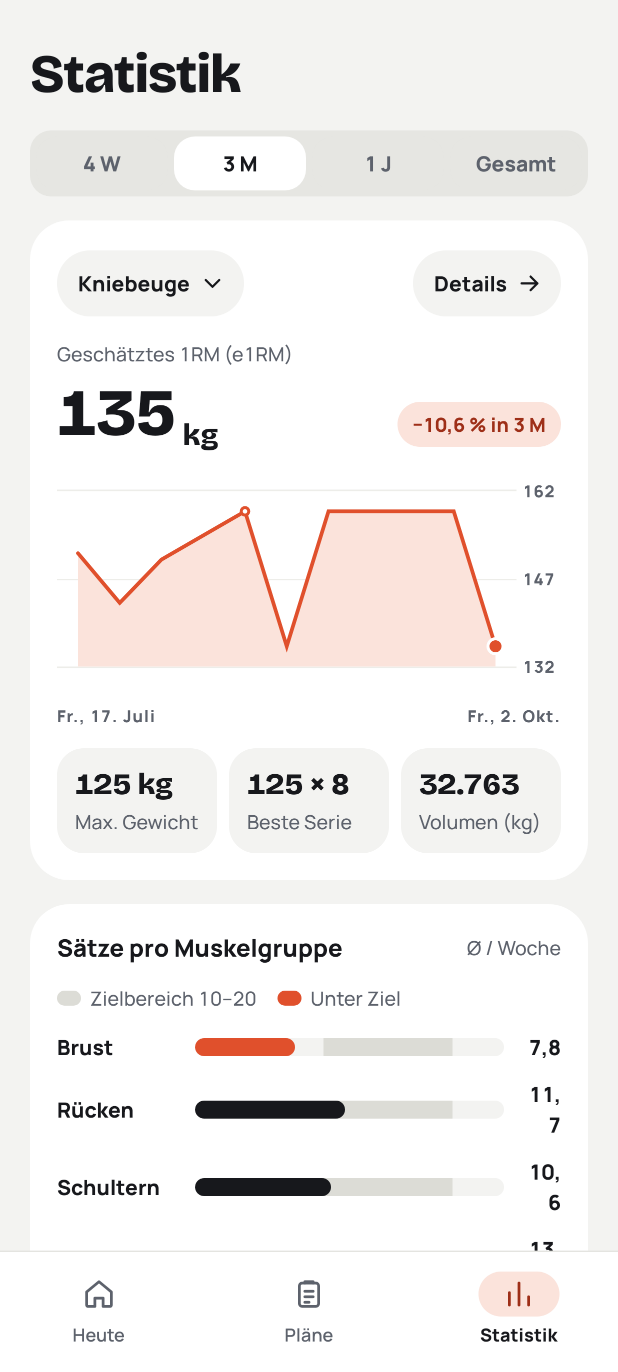
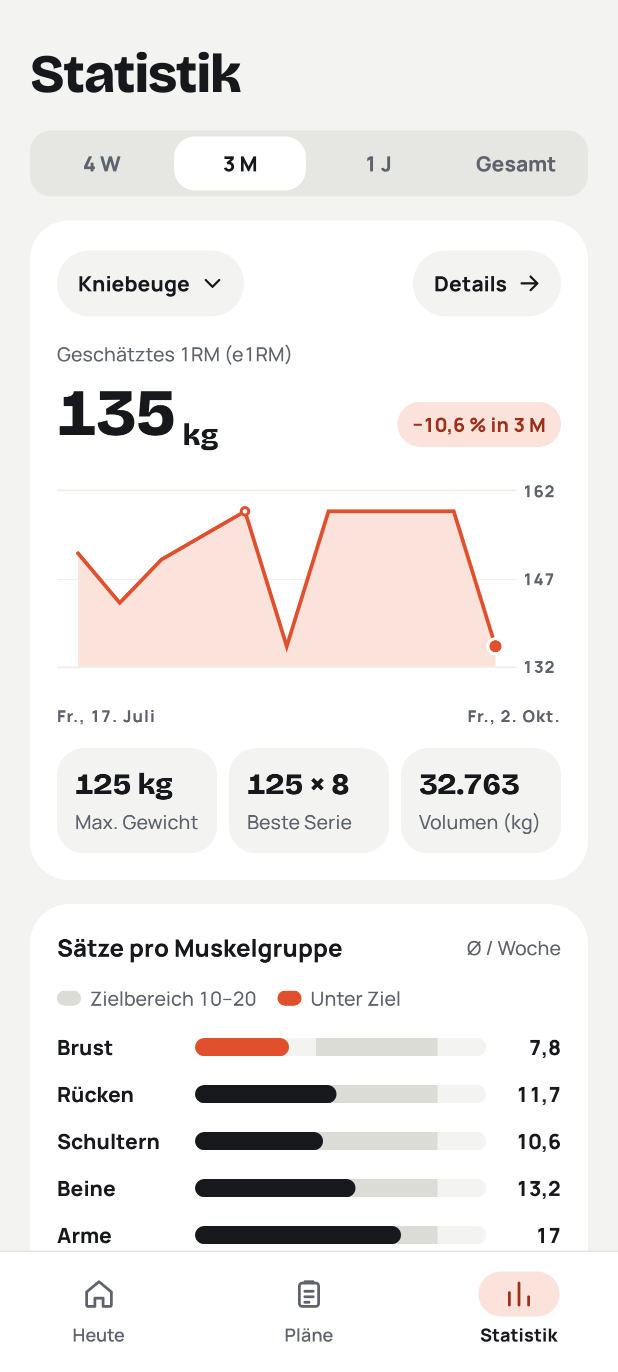
Fix free-training button, empty week days and volume values
- Today: the free-training button sits on the page background, so it
  uses surface instead of surface-sunken (same color as ground).
- Week card: empty days use surface-muted; track equals surface in
  the dark theme and the circles disappeared.
- Stats: wider value column for sets per muscle group, single line.

Claude-Session: https://claude.ai/code/session_014HBiUC9h1Fg6CSmZjMf5Kn

diff --git a/app/src/main/kotlin/io/github/wtfjb/aximo/ui/components/Buttons.kt b/app/src/main/kotlin/io/github/wtfjb/aximo/ui/components/Buttons.kt
@@ -5,6 +5,7 @@ import androidx.compose.foundation.layout.height
 import androidx.compose.material3.Button
 import androidx.compose.material3.ButtonDefaults
 import androidx.compose.material3.MaterialTheme
+import androidx.compose.ui.graphics.Color
 import androidx.compose.material3.Text
 import androidx.compose.runtime.Composable
 import androidx.compose.ui.Modifier
@@ -45,13 +46,19 @@ fun InverseButton(text: String, onClick: () -> Unit, modifier: Modifier = Modifi
 
 /** Helper actions inside cards ("+ Satz", "Supersatz", export). */
 @Composable
-fun SecondaryButton(text: String, onClick: () -> Unit, modifier: Modifier = Modifier) {
+fun SecondaryButton(
+    text: String,
+    onClick: () -> Unit,
+    modifier: Modifier = Modifier,
+    // surface-sunken inside cards; on the screen background pass `surface`, else the button disappears.
+    containerColor: Color = MaterialTheme.colorScheme.surfaceContainerLow,
+) {
     Button(
         onClick = onClick,
         modifier = modifier.defaultMinSize(minHeight = Sizes.touch),
         shape = MaterialTheme.shapes.small,
         colors = ButtonDefaults.buttonColors(
-            containerColor = MaterialTheme.colorScheme.surfaceContainerLow,
+            containerColor = containerColor,
             contentColor = MaterialTheme.colorScheme.onSurface,
         ),
     ) {

diff --git a/app/src/main/kotlin/io/github/wtfjb/aximo/ui/screens/TodayScreen.kt b/app/src/main/kotlin/io/github/wtfjb/aximo/ui/screens/TodayScreen.kt
@@ -5,6 +5,7 @@ import androidx.compose.foundation.layout.Row
 import androidx.compose.foundation.layout.fillMaxWidth
 import androidx.compose.foundation.rememberScrollState
 import androidx.compose.foundation.verticalScroll
+import androidx.compose.material3.MaterialTheme
 import androidx.compose.runtime.Composable
 import androidx.compose.runtime.getValue
 import androidx.compose.runtime.remember
@@ -71,6 +72,7 @@ fun TodayScreen(
                 SecondaryButton(
                     text = stringResource(R.string.plans_free_training),
                     onClick = { viewModel.startOrResume(null, onOpenWorkout) },
+                    containerColor = MaterialTheme.colorScheme.surface,
                 )
             }
             else -> PrimaryButton(

diff --git a/app/src/main/kotlin/io/github/wtfjb/aximo/ui/today/TodayCards.kt b/app/src/main/kotlin/io/github/wtfjb/aximo/ui/today/TodayCards.kt
@@ -183,7 +183,7 @@ private fun DayCell(day: WeekDay, modifier: Modifier = Modifier) {
                     Text(text = day.date.day.toString(), style = MaterialTheme.typography.labelLarge)
                 }
             } else {
-                Box(circle.background(MaterialTheme.extendedColors.track))
+                Box(circle.background(MaterialTheme.colorScheme.surfaceVariant))
             }
         }
     }

diff --git a/app/src/main/kotlin/io/github/wtfjb/aximo/ui/theme/Dimens.kt b/app/src/main/kotlin/io/github/wtfjb/aximo/ui/theme/Dimens.kt
@@ -80,7 +80,7 @@ object Sizes {
     /** Sets per muscle group: bar height and the label / value columns (82 | 1fr | 28). */
     val volumeBar = 12.dp
     val volumeLabelColumn = 82.dp
-    val volumeValueColumn = 28.dp
+    val volumeValueColumn = 40.dp
 
     /** Heatmap cell height and legend swatches (16 × 10 bar, 10 × 10 dot). */
     val heatCell = 18.dp

diff --git a/app/src/main/kotlin/io/github/wtfjb/aximo/ui/stats/StatsScreen.kt b/app/src/main/kotlin/io/github/wtfjb/aximo/ui/stats/StatsScreen.kt
@@ -388,6 +388,8 @@ private fun VolumeRow(item: RegionVolume) {
             text = value,
             style = MaterialTheme.typography.labelLarge,
             textAlign = androidx.compose.ui.text.style.TextAlign.End,
+            maxLines = 1,
+            softWrap = false,
             modifier = Modifier.width(Sizes.volumeValueColumn),
         )
     }

diff --git a/docs/progress.md b/docs/progress.md
@@ -161,7 +161,7 @@ Plan: B-01 → B-02 → … → B-07 in kleinen PRs. Coach-Tab kommt zurück in 
   - App-Icon #25 „Weich mit Abstand“ (Adaptive Icon + Monochrome, Quelle `docs/design/app-icon.svg`)
 
 ## In Arbeit
-- README mit Screenshots (`docs/screenshots`, erzeugt per `ReadmeScreenshots`-Test mit `-Pscreenshots`)
+- README mit Screenshots (`docs/screenshots`, erzeugt per `ReadmeScreenshots`-Test mit `-Pscreenshots`) und drei UI-Fixes aus den Screenshots, PR #31
 
 ## Nächster Schritt
 - B-07 Auto-Backup (Periodischer JSON-Export in frei wählbaren Ordner, Intervall konfigurierbar, Rotation der letzten N Backups; Anforderung siehe `docs/requirements.md`)
@@ -172,7 +172,7 @@ Plan: B-01 → B-02 → … → B-07 in kleinen PRs. Coach-Tab kommt zurück in 
 - Stand eines PRs N: https://github.com/wtf-jb/aximo/releases/download/pr-N/aximo-debug.apk
 
 ## Offen für Jonas
-- Auf den README-Screenshots aufgefallen (Robolectric-Rendering, bitte auf dem Pixel gegenprüfen): (1) „Freies Training“ auf Heute hat im hellen Theme keinen sichtbaren Hintergrund; (2) im dunklen Theme sind die leeren Tage der Wochenleiste kaum zu sehen; (3) Statistik → Sätze pro Muskelgruppe: Werte wie „11,7“ brechen um. Sag Bescheid, dann behebe ich sie
+- UI-Fixes testen (APK von main nach PR #31): „Heute“ → „Freies Training“ hat im hellen Theme eine weiße Fläche; dunkles Theme → leere Tage in „Diese Woche“ als dunkelgraue Kreise sichtbar; Statistik → „Sätze pro Muskelgruppe“: Werte wie „11,7“ einzeilig
 - App-Icon testen (APK von main): neues Icon „Scheiben laden“ auf dem Homescreen (dunkel, Koralle-Scheibe mit Lücke), in der App-Übersicht und beim Start (Splash). Themed Icons an (Hintergrund & Stil → Designsymbole) → einfarbig, Lücke sichtbar. Ggf. alte Debug-App neu installieren, falls der Launcher das alte Icon cached
 - Info-Icon im Workout testen (APK von main): Workout starten, in einer Übungskarte das (i) neben „⋯“ antippen → Übungsdetail öffnet direkt im Tab „Info“ (Fotos, Anleitung); Zurück → wieder im Workout, nichts verloren
 - Katalog mit Fotos und deutschen Texten testen (APK von main): Übungen → „Aus Katalog hinzufügen“ → Namen sind deutsch, Suche nach „Kniebeuge“ und „squat“ findet beide; Eintrag antippen → zwei Fotos (Start/Ende) über der Anleitung; Info-Tab einer Startübung (z. B. Bankdrücken) zeigt Fotos und deutsche Anleitung. Gerätesprache Englisch → englische Texte. Übersetzungsfehler gern als Liste melden

diff --git a/docs/decisions.md b/docs/decisions.md
@@ -183,3 +183,4 @@
 | 2026-10-05 | App-Icon: Richtung | **„Scheiben laden, weich mit Abstand“** (#25): Langhantel von der Seite, zwei runde Scheiben in Vordergrundfarbe werden nach rechts größer, Lücke (8 von 108 Einheiten), dann die größte Scheibe in Koralle, dahinter ein kleiner Verschluss (Progression, Koralle = nächste Scheibe) | Von Jonas aus 18 Entwürfen gewählt (Canvas https://claude.ai/artifact/UznX6mypaAib7t6sdxD78d). Verworfen u. a.: Monogramm, Ring, Kettlebell, Kurzhantel, Bizeps. Umgesetzt als Adaptive Icon: Hintergrund `inverse-surface` (#17181C, in beiden Themes fest), Motiv weiß + Koralle als Vektor in der 66-dp-Safe-Zone, eigener Monochrome-Layer (Themed Icons ab Android 13; dort trägt die Lücke die Unterscheidung). Quelle: `docs/design/app-icon.svg`. Kein Splash-Screen-Icon nötig, Android 12+ nimmt das Launcher-Icon |
 | 2026-10-05 | README-Screenshots | Robolectric-Test `ReadmeScreenshots` (`:app`, Native Graphics, `de`, 412 × 915 dp) rendert die echte App mit „Testdaten laden“ und speichert PNGs (halbe Auflösung) nach `docs/screenshots`. Läuft nur mit `-Pscreenshots`, sonst übersprungen. Eigene Test-`Application` ohne WorkManager. Neue Test-Abhängigkeiten: `compose-ui-test-junit4`, `ui-test-manifest` (nur debug), Robolectric auch in `:app` | Kein Emulator in der Cloud-Session (kein KVM). Mockup-Bilder wären nicht die echte App. Paparazzi/Roborazzi wären zusätzliche Plugins; Robolectric ist schon im Projekt |
 | 2026-10-05 | README | Deutsch, mit Screenshots hell/dunkel, Funktionen, Trainingsablauf, Datenschutz, Installation (APK-Link), Bauen, Projektstruktur, Mitmachen, Lizenz/Danksagung | Projektsprache ist Deutsch; für eine F-Droid-Veröffentlichung kann eine englische Fassung folgen |
+| 2026-10-05 | UI-Fixes aus den Screenshots | „Freies Training“ auf Heute: `SecondaryButton` bekommt `containerColor`, auf dem Seitengrund `surface` (sonst `surface-sunken` = `ground`, unsichtbar). Leere Wochentage: `surface-muted` statt `track` (Token-Doku: „leere Kalendertage“; `track` = `surface` im Dark Theme). Wertespalte Muskelvolumen 28 → 40 dp, einzeilig | Alternative für den Button: Plans-`QuickAction` wiederverwenden; wäre eine zweite große Kachel unter der Hero-Karte und weicht vom Mockup ab |
